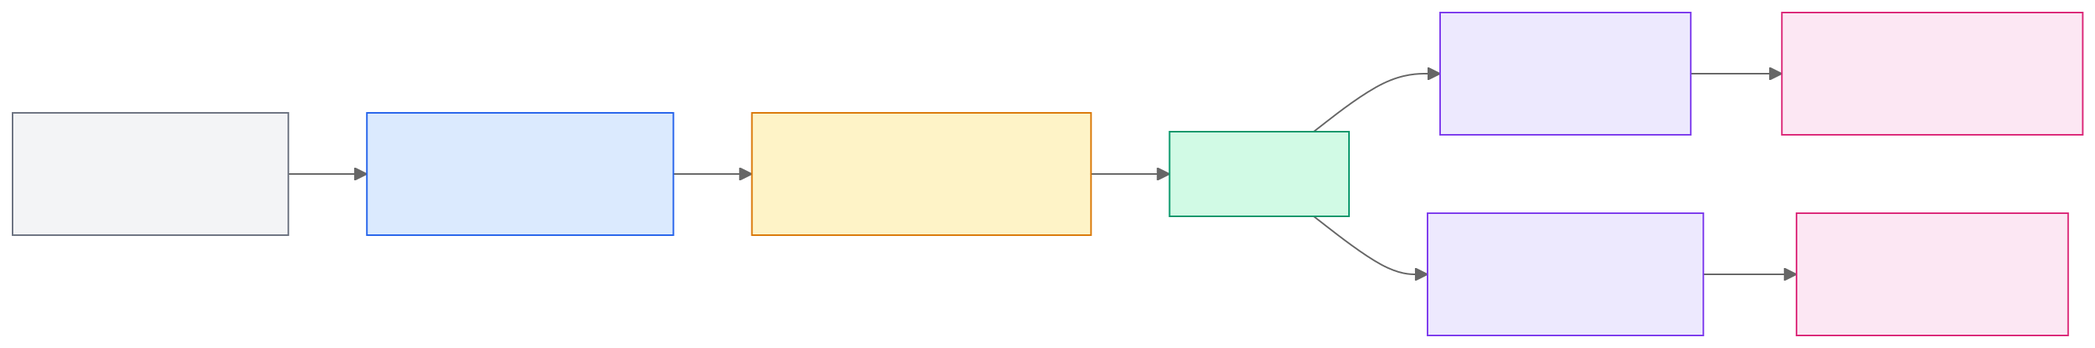
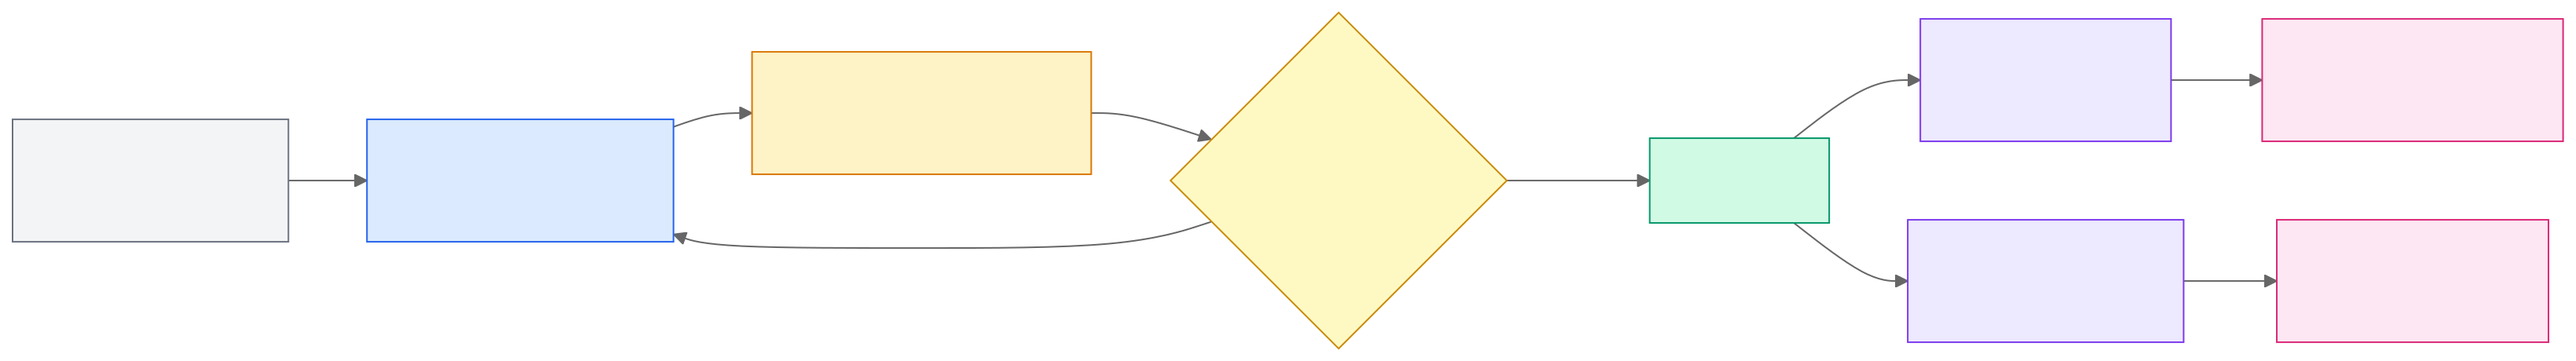
Add Language Check to pipeline: AI detection shield with feedback loop in diagram

diff --git a/docs/index.html b/docs/index.html
@@ -138,7 +138,7 @@ for integrity verification.</p>
 <h2 id="the-pipeline">The Pipeline</h2>
 <p>Each article passes through these stages:</p>
 <div class="diagram">
[2 lines of base64/hex data omitted]
 </div>
 <ul>
 <li><strong>Author</strong> writes a draft in Danish or English</li>
@@ -146,6 +146,8 @@ for integrity verification.</p>
 Markdown with proper front matter</li>
 <li><strong>Mistral Small</strong> handles translation to English and
 proofreads spelling, grammar, and punctuation</li>
+<li><strong>Language Check</strong> analyzes the text for AI-like
+patterns — if flagged, the text loops back for revision</li>
 <li><strong>Pandoc</strong> generates responsive HTML (with Mermaid JS
 for diagrams) and styled PDF (with xelatex)</li>
 <li><strong>Local preview</strong> via Python HTTP server confirms the
@@ -209,11 +211,16 @@ everything public</li>
 <td>CNAME per article subdomain</td>
 </tr>
 <tr class="odd">
+<td>Language check</td>
+<td>language-check.py</td>
+<td>AI detection shield (burstiness, vocabulary, AI phrases)</td>
+</tr>
+<tr class="even">
 <td>Integrity</td>
 <td>SHA256SUMS</td>
 <td>Checksum for every output format</td>
 </tr>
-<tr class="even">
+<tr class="odd">
 <td>Feedback</td>
 <td>GitHub Issues</td>
 <td>Public, traceable, email-notified</td>
@@ -246,9 +253,10 @@ everything public</li>
 <p>The entire system runs from the command line with four scripts:</p>
 <div class="sourceCode" id="cb2"><pre
 class="sourceCode bash"><code class="sourceCode bash"><span id="cb2-1"><a href="#cb2-1" aria-hidden="true" tabindex="-1"></a><span class="ex">python3</span> app/mistral-proofread.py article/<span class="op">&lt;</span>name<span class="op">&gt;</span>.md</span>
-<span id="cb2-2"><a href="#cb2-2" aria-hidden="true" tabindex="-1"></a><span class="ex">python3</span> app/build-html.py <span class="op">&lt;</span>article-dir<span class="op">&gt;</span></span>
-<span id="cb2-3"><a href="#cb2-3" aria-hidden="true" tabindex="-1"></a><span class="ex">python3</span> app/build-pdf.py <span class="op">&lt;</span>article-dir<span class="op">&gt;</span></span>
-<span id="cb2-4"><a href="#cb2-4" aria-hidden="true" tabindex="-1"></a><span class="ex">python3</span> app/build-checksums.py <span class="op">&lt;</span>article-dir<span class="op">&gt;</span></span></code></pre></div>
+<span id="cb2-2"><a href="#cb2-2" aria-hidden="true" tabindex="-1"></a><span class="ex">python3</span> app/language-check.py article/<span class="op">&lt;</span>name<span class="op">&gt;</span>.md</span>
+<span id="cb2-3"><a href="#cb2-3" aria-hidden="true" tabindex="-1"></a><span class="ex">python3</span> app/build-html.py <span class="op">&lt;</span>article-dir<span class="op">&gt;</span></span>
+<span id="cb2-4"><a href="#cb2-4" aria-hidden="true" tabindex="-1"></a><span class="ex">python3</span> app/build-pdf.py <span class="op">&lt;</span>article-dir<span class="op">&gt;</span></span>
+<span id="cb2-5"><a href="#cb2-5" aria-hidden="true" tabindex="-1"></a><span class="ex">python3</span> app/build-checksums.py <span class="op">&lt;</span>article-dir<span class="op">&gt;</span></span></code></pre></div>
 <p>No CMS, no database, no build server. Just Markdown, Git, and
 automation.</p>
 <hr />

diff --git a/article/test-artikel.md b/article/test-artikel.md
@@ -34,6 +34,7 @@ Each article passes through these stages:
 - **Author** writes a draft in Danish or English
 - **Claude** restructures the content into consistent Markdown with proper front matter
 - **Mistral Small** handles translation to English and proofreads spelling, grammar, and punctuation
+- **Language Check** analyzes the text for AI-like patterns — if flagged, the text loops back for revision
 - **Pandoc** generates responsive HTML (with Mermaid JS for diagrams) and styled PDF (with xelatex)
 - **Local preview** via Python HTTP server confirms the result before publishing
 - **Git push** and a **GitHub release** make everything public
@@ -50,6 +51,7 @@ Each article passes through these stages:
 | Formatting | Claude | Structure, consistency, front matter |
 | Hosting | GitHub Pages | Static site per article |
 | Domain | Njal.la DNS | CNAME per article subdomain |
+| Language check | language-check.py | AI detection shield (burstiness, vocabulary, AI phrases) |
 | Integrity | SHA256SUMS | Checksum for every output format |
 | Feedback | GitHub Issues | Public, traceable, email-notified |
 
@@ -86,6 +88,7 @@ The entire system runs from the command line with four scripts:
 
 ```bash
 python3 app/mistral-proofread.py article/<name>.md
+python3 app/language-check.py article/<name>.md
 python3 app/build-html.py <article-dir>
 python3 app/build-pdf.py <article-dir>
 python3 app/build-checksums.py <article-dir>
